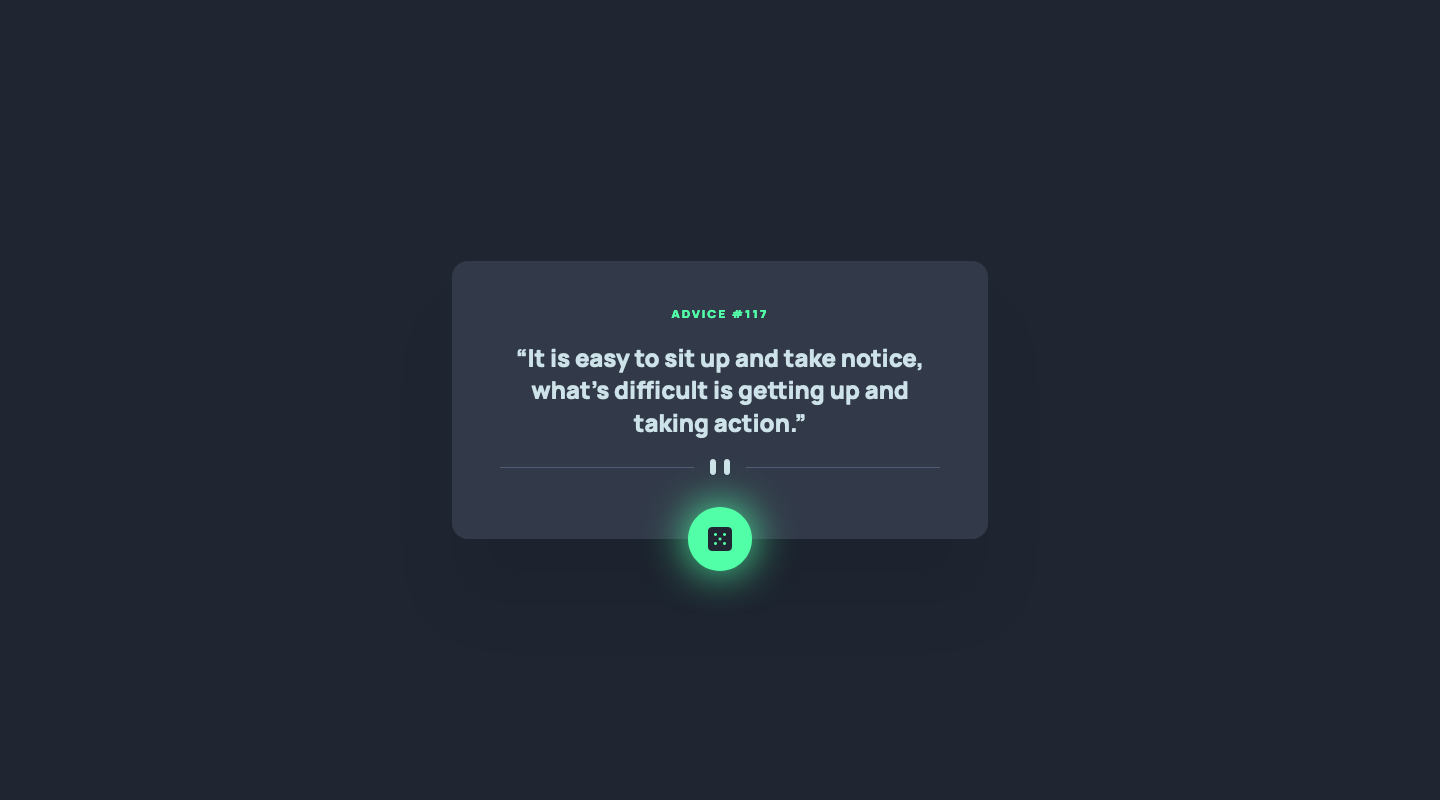
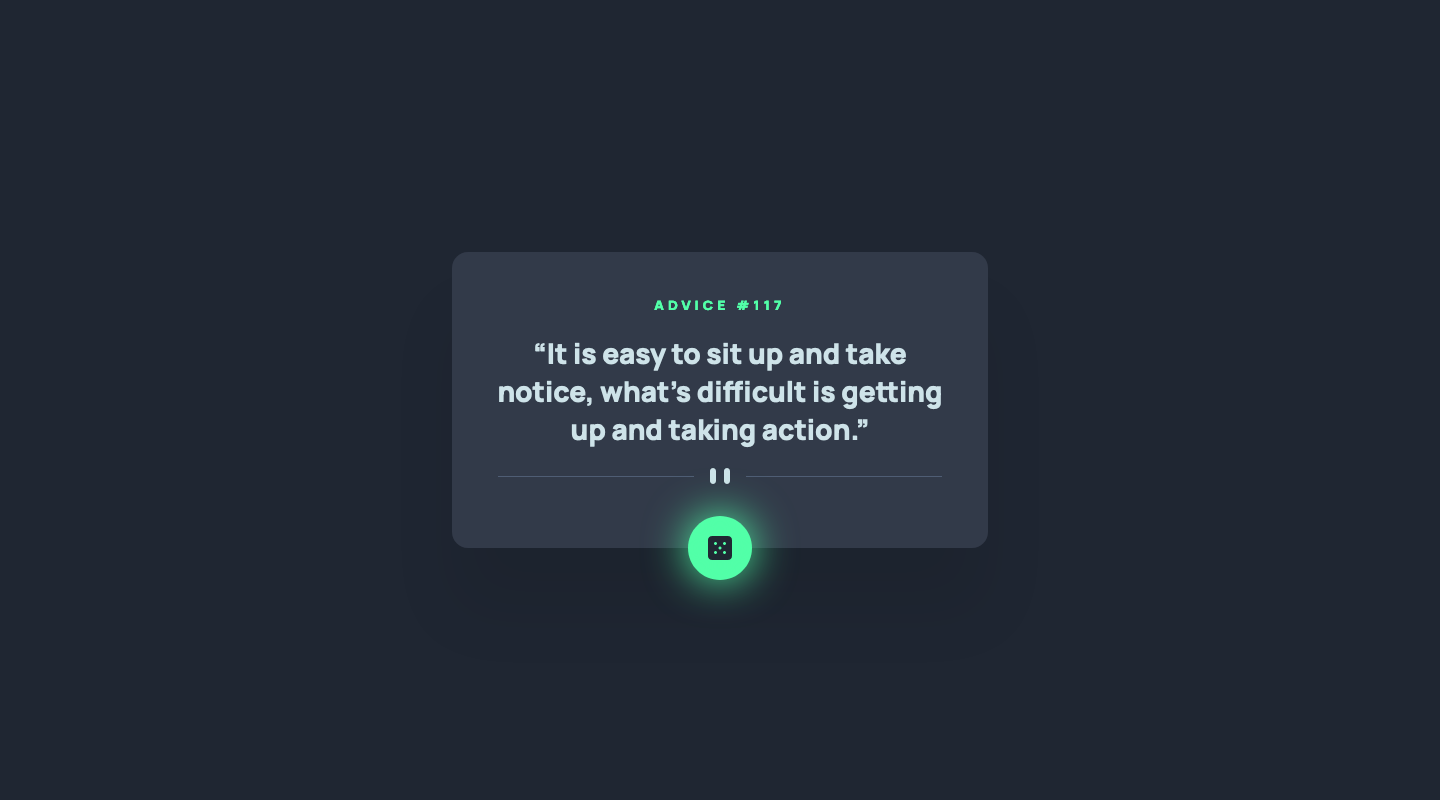
Update "Advice generator app" CSS

Changed region(s): [[0.3438, 0.4062, 0.6562, 0.5625], [0.3125, 0.625, 0.6875, 0.75], [0.4375, 0.375, 0.5312, 0.4062]]

diff --git a/frontend-mentor/advice-generator-app/css/style.css b/frontend-mentor/advice-generator-app/css/style.css
@@ -20,8 +20,10 @@
     --ff-sans-serif: 'Manrope', sans-serif;
 
     /* Font size */
-    --fs-400: 1.5em; /* 24px */
-    --fs-300: 0.5em; /* 12px */
+    --fs-400: clamp(1.5em, 4vw, 1.75em); /* 24px -> 28px */
+    --fs-300: 0.5em; /* 12px -> 14px */
+
+    --letter-spacing: 4px;
 }
 
 
@@ -84,7 +86,7 @@ body {
 .fs-300 { font-size: var(--fs-300); }
 
 .uppercase { text-transform: uppercase; }
-.letter-spacing { letter-spacing: 2px; }
+.letter-spacing { letter-spacing: var(--letter-spacing); }
 
 
 /* ==================== */
